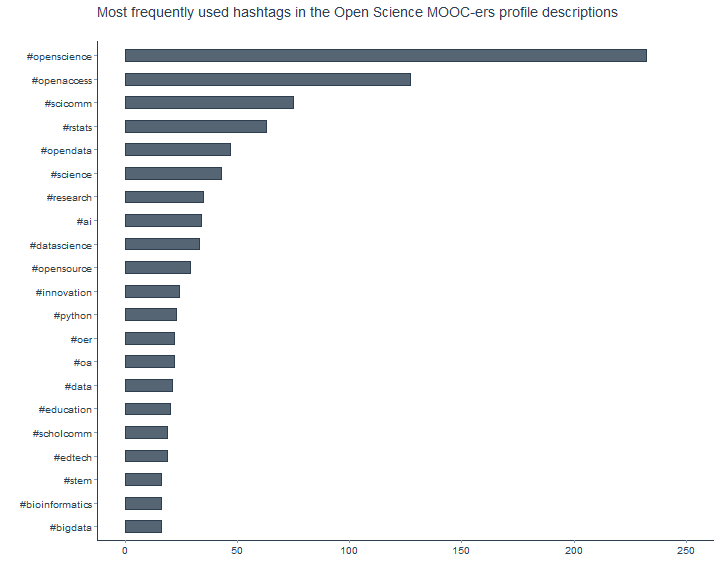
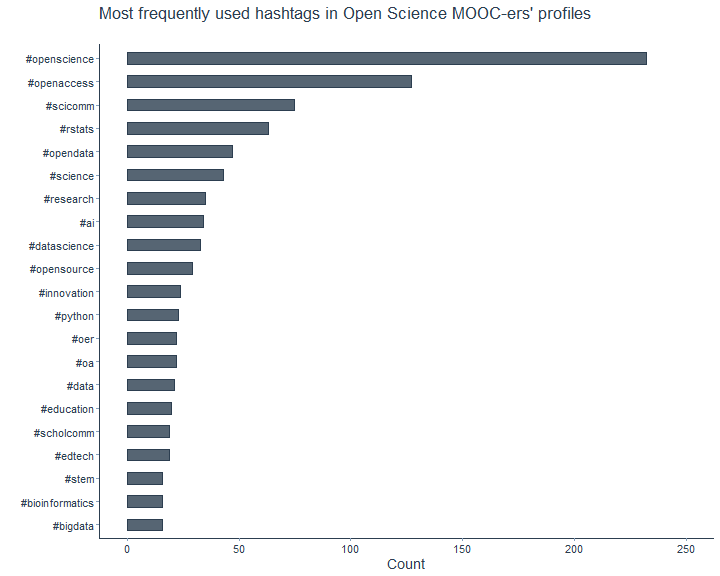
Update post and images

diff --git a/_posts/2019-06-02-openscience-follower-analysis.md b/_posts/2019-06-02-openscience-follower-analysis.md
@@ -81,8 +81,8 @@ viz_theme <- theme(
   panel.grid.minor = element_blank(),
   plot.caption = element_text(colour = "#3e5871"),
   strip.background = element_rect(colour = "#2c3e50", fill = "white"),
-  strip.text = element_text(size = rel(1)),
-  text = element_text(colour = "#2c3e50"))
+  strip.text = element_text(size = rel(1), face = "bold"),
+  text = element_text(size = 14, colour = "#2c3e50", family = "Avenir"))
 ```
 
 ## Friend or follow?
@@ -100,9 +100,9 @@ relations_df %>%
   ggplot(mapping = aes(x = relation, fill = relation)) +
   scale_fill_manual(" ", values = c("#6c7a89", "#2C3E50", "#22313f")) +
   scale_x_discrete(labels = c("Friend & follower", "Follower", "Friend")) +
-  viz_theme + ylab("") + xlab("") +
+  viz_theme + ylab("Count") + xlab("") +
   geom_bar(alpha = 0.8, width = 0.5) + ylim(0, 4000) +
-  ggtitle(label = "Count of Open Science MOOC Twitter followers & friends", subtitle = " ") +
+  ggtitle(label = "Open Science MOOC Twitter followers & friends", subtitle = " ") +
   theme(legend.position = "none")
 ```
 
@@ -146,7 +146,7 @@ data_df %>%
   top_n(20, n) %>%
   ggplot(aes(city_clean, n)) +
   geom_bar(stat = "identity", width = 0.5, alpha = 0.8, color = "#2c3e50", fill = "#2c3e50") +
-  xlab("") + ylab("") + ggtitle("Top locations of Open Science Twitter MOOC-ers", subtitle = " ") +
+  xlab("") + ylab("Count") + ggtitle("Top locations of Open Science Twitter MOOC-ers", subtitle = " ") +
   coord_flip() + viz_theme
 ```
 
@@ -201,7 +201,7 @@ In a slightly more advanced version of this map, I added further information on 
 ggplot() +
   geom_polygon(data = map_world, aes(x = long, y = lat, group = group), colour = "gray85", fill = "gray80") +
   geom_point(data = data_df, aes(x = lon, y = lat, size = followersCount), color = "#2c3e50", alpha = 0.5) +
-  ggtitle(label = "Locations of Open Science Twitter MOOC-ers", subtitle = "Marker sizes relative to followers' followers counts (N = 2220)") +
+  ggtitle(label = "Locations of Open Science Twitter MOOC-ers", subtitle = "Marker sizes relative to followers' followers count (N = 2220)") +
   scale_size_continuous(range = c(1, 6), limits = c(0, 300000),
                         breaks = c(0, 1000, 10000, 100000, 200000, 300000),
                         labels = function(x) format(x, scientific = FALSE)) +
@@ -285,9 +285,9 @@ followers_gender %>%
   ggplot(mapping = aes(x = gender, fill = gender)) +
   scale_fill_manual(" ", values = c("#6c7a89", "#22313f")) +
   scale_x_discrete(labels = c("Female", "Male")) +
-  viz_theme + ylab("") + xlab("") +
+  viz_theme + ylab("Count") + xlab("") +
   geom_bar(alpha = 0.8, width = 0.5) +
-  ggtitle(label = "Count of Open Science Twitter MOOC-ers by gender", subtitle = "Gender predicted with genderize.io (random sample of N = 1000 followers)") +
+  ggtitle(label = "Open Science Twitter MOOC-ers by gender", subtitle = "Gender predicted with genderize.io (random sample of N = 1000 followers)") +
   theme(legend.position = "none")
 ```
 
@@ -321,9 +321,9 @@ data_df %>%
   ggplot(mapping = aes(x = category, fill = category)) +
   scale_fill_manual(" ", values = c("#C0392B", "#2C3E50", "#16A085", "#F1C40F")) +
   scale_x_discrete(labels = c("Influencer", "Personal account", "Verified account", "Verified influencer")) +
-  viz_theme + ylab("") + xlab("") +
+  viz_theme + ylab("Count") + xlab("") +
   geom_bar(alpha = 0.8, width = 0.5) +
-  ggtitle(label = 'Number of Open Science Twitter MOOC-ers by account status', subtitle = "Influencer: at least 500 followers and at least thrice as many followers than friends \nVerified: official verification status") + ylim(0, 6000) +
+  ggtitle(label = 'Open Science Twitter MOOC-ers by account status', subtitle = "Influencer = at least 500 followers and at least thrice as many followers than friends \nVerified = official verification status") + ylim(0, 6000) +
   theme(legend.position = "none")
 ```
 
@@ -340,7 +340,7 @@ data_df %>%
   mutate(screenName = reorder(screenName, followersCount)) %>%
   ggplot(aes(screenName, followersCount, label = followersCount)) +
   geom_bar(stat = "identity", width = 0.5, alpha = 0.8, color = "#2c3e50", fill = "#2c3e50") +
-  xlab("") + ylab("") + ggtitle("Most influential Open Science MOOC-ers", subtitle = "Followers count") +
+  xlab("") + ylab("Followers count") + ggtitle("Most influential Open Science MOOC-ers", subtitle = " ") +
   scale_y_continuous(labels = function(x) format(x, scientific = FALSE)) +
   coord_flip() + viz_theme
 ```
@@ -365,7 +365,7 @@ data_df %>%
   mutate(screenName = reorder(screenName, statuses_day)) %>%
   ggplot(aes(screenName, statuses_day, label = statuses_day)) +
   geom_bar(stat = "identity", width = 0.5, alpha = 0.8, color = "#2c3e50", fill = "#2c3e50") +
-  xlab("") + ylab("") + ggtitle("Most active Open Science MOOC-ers", subtitle = "Average number of tweets per day") +
+  xlab("") + ylab("Average number of tweets per day") + ggtitle("Most active Open Science MOOC-ers", subtitle = " ") +
   scale_y_continuous(labels = function(x) format(x, scientific = FALSE)) + ylim(0, 200) +
   coord_flip() + viz_theme
 ```
@@ -380,7 +380,7 @@ data_df %>%
     geom_smooth(method = "lm", color = "grey50", fill = "grey90", alpha = 0.8) +
     geom_point(alpha = 0.8) +
   scale_color_continuous("Number of days since \naccount was created", low = "#91aac3", high = "#2C3E50") +
-    xlab("Number of followers (log2)") + ylab("Average number of tweets per day (log2)") + ggtitle("Correlation between the Open Science MOOC-ers followers count and tweets per day", subtitle = " ") +
+    xlab("Number of followers (log2)") + ylab("Average number of tweets per day (log2)") + ggtitle("Correlation between followers count and tweets per day", subtitle = " ") +
     viz_theme
 ```
 
@@ -424,8 +424,8 @@ desc_tidy %>%
   top_n(20, n) %>%
   ggplot(aes(x = reorder(word_stem, n), y = n)) +
   geom_bar(stat = "identity", width = 0.5, alpha = 0.8, color = "#2c3e50", fill = "#2c3e50") +
-  ylab("") + xlab("") +
-  ggtitle(label = "Count of words in the Open Science MOOC-ers profile descriptions", subtitle = " ") + ylim(0, 1250) +
+  ylab("Count") + xlab("") +
+  ggtitle(label = "Most common words in Open Science MOOC-ers' profiles", subtitle = " ") + ylim(0, 1250) +
   coord_flip() + viz_theme
 ```
 
@@ -456,7 +456,7 @@ desc_tidy %>%
   top_n(20, n) %>%
   ggplot(aes(word, n)) +
   geom_bar(stat = "identity", width = 0.5, alpha = 0.8, color = "#2c3e50", fill = "#2c3e50") +
-  xlab("") + ylab("") + ggtitle("Most frequently used hashtags in the Open Science MOOC-ers profile descriptions", subtitle = " ") +
+  xlab("") + ylab("Count") + ggtitle("Most frequently used hashtags in Open Science MOOC-ers' profiles", subtitle = " ") +
   coord_flip() + viz_theme + ylim(0, 250)
 ```
 
@@ -477,7 +477,7 @@ desc_tidy %>%
   top_n(20, n) %>%
   ggplot(aes(word, n)) +
   geom_bar(stat = "identity", width = 0.5, alpha = 0.8, color = "#2c3e50", fill = "#2c3e50") +
-  xlab("") + ylab("") + ggtitle("Most frequently used mentions in the Open Science MOOC-ers profile descriptions", subtitle = " ") + ylim(0, 15) +
+  xlab("") + ylab("Count") + ggtitle("Most frequent mentions in Open Science MOOC-ers' profiles", subtitle = " ") + ylim(0, 15) +
   coord_flip() + viz_theme
 ```
 
@@ -509,7 +509,7 @@ bigrams_tidy %>%
   top_n(20, n) %>%
   ggplot(aes(x = reorder(bigram, n), y = n)) +
   geom_bar(stat = "identity", width = 0.5, alpha = 0.8, color = "#2c3e50", fill = "#2c3e50") +
-  xlab("") + ylab("") + ggtitle("Most common bigrams in the Open Science MOOC-ers profile descriptions", subtitle = " ") + ylim(0, 200) +
+  xlab("") + ylab("Count") + ggtitle("Most common bigrams in Open Science MOOC-ers' profiles", subtitle = " ") + ylim(0, 200) +
   coord_flip() + viz_theme
 ```
 
@@ -534,7 +534,7 @@ ggraph(bigram_graph, layout = "nicely") +
   geom_node_label(aes(label = name), vjust = 1, hjust = 0.5, label.size = 0.05,
                   label.padding = unit(0.15, "lines"), label.r = 0.05, fill = "#ffffff66",
                   color = "#2c3e50", repel = TRUE) +
-  ggtitle("Bigram network of the Open Science MOOC-ers profile descriptions", subtitle = "Edge width relative to number of times each bigram occurs") +
+  ggtitle("Bigram network of Open Science MOOC-ers' profile texts", subtitle = "Edge width relative to number of times each bigram occurs") +
   viz_theme + theme(axis.line = element_blank(),
                     axis.text = element_blank(),
                     axis.title = element_blank(),
@@ -560,7 +560,7 @@ desc_tidy %>%
   geom_bar(aes(fill = sentiment), stat = "identity", alpha = 0.8, width = 0.5) +
   scale_fill_manual(values = c("#620000","#006262")) +
   scale_x_discrete(labels = c("Negative", "Positive")) +
-  xlab("") + ylab("") + ggtitle("Count of positive and negative sentiments in the Open Science MOOC-ers profile descriptions", subtitle = "Sentiment lexicon by Bing Liu and collaborators") + ylim(0, 2000) +
+  xlab("") + ylab("Count") + ggtitle("Positive and negative sentiments in the Open Science MOOC-ers' profiles", subtitle = "Sentiment lexicon by Bing Liu and collaborators") + ylim(0, 2000) +
   theme(legend.position = "none") + viz_theme
 ```
 
@@ -578,7 +578,7 @@ desc_tidy %>%
   mutate(difference = positive - negative) %>%
   ggplot(aes(x = difference)) +
   geom_density(color = "#2c3e50", fill = "#2c3e50", alpha = 0.8) +
-  xlab("Sentiment") + ylab("Density") + ggtitle("Distribution of sentiments in the Open Science MOOC-ers profile descriptions", subtitle = "Sentiment lexicon by Bing Liu and collaborators") + ylim(0, 1.6) +
+  xlab("Sentiment") + ylab("Density") + ggtitle("Distribution of sentiments in Open Science MOOC-ers' profiles", subtitle = "Sentiment lexicon by Bing Liu and collaborators") + ylim(0, 1.6) +
   viz_theme
 ```
 
@@ -601,7 +601,7 @@ desc_tidy %>%
   scale_fill_manual(name = "Sentiment",
                     labels = c("Negative", "Positive"),
                     values = c("negative" = "#620000", "positive" = "#006262")) +
-  xlab("") + ylab("") + ggtitle("Most common positive and negative words in the Open Science MOOC-ers profile descriptions", subtitle = "Sentiment lexicon by Bing Liu and collaborators") +
+  xlab("") + ylab("Count") + ggtitle("Most common positive and negative words in Open Science MOOC-ers' profiles", subtitle = "Sentiment lexicon by Bing Liu and collaborators") +
   viz_theme + coord_flip() + ylim(0, 150)
 ```
 
@@ -616,7 +616,7 @@ desc_tidy %>%
   count(word, sentiment, sort = TRUE) %>%
   acast(word ~ sentiment, value.var = "n", fill = 0) %>%
   comparison.cloud(colors = c("#620000", "#006262"),
-                   max.words = 100)
+                   max.words = 200)
 ```
 
 <p align="center"><img src="https://raw.githubusercontent.com/lhehnke/lhehnke.github.io/master/img/osci-followers/comparison-cloud-1.png" vspace="50px"/></p>
